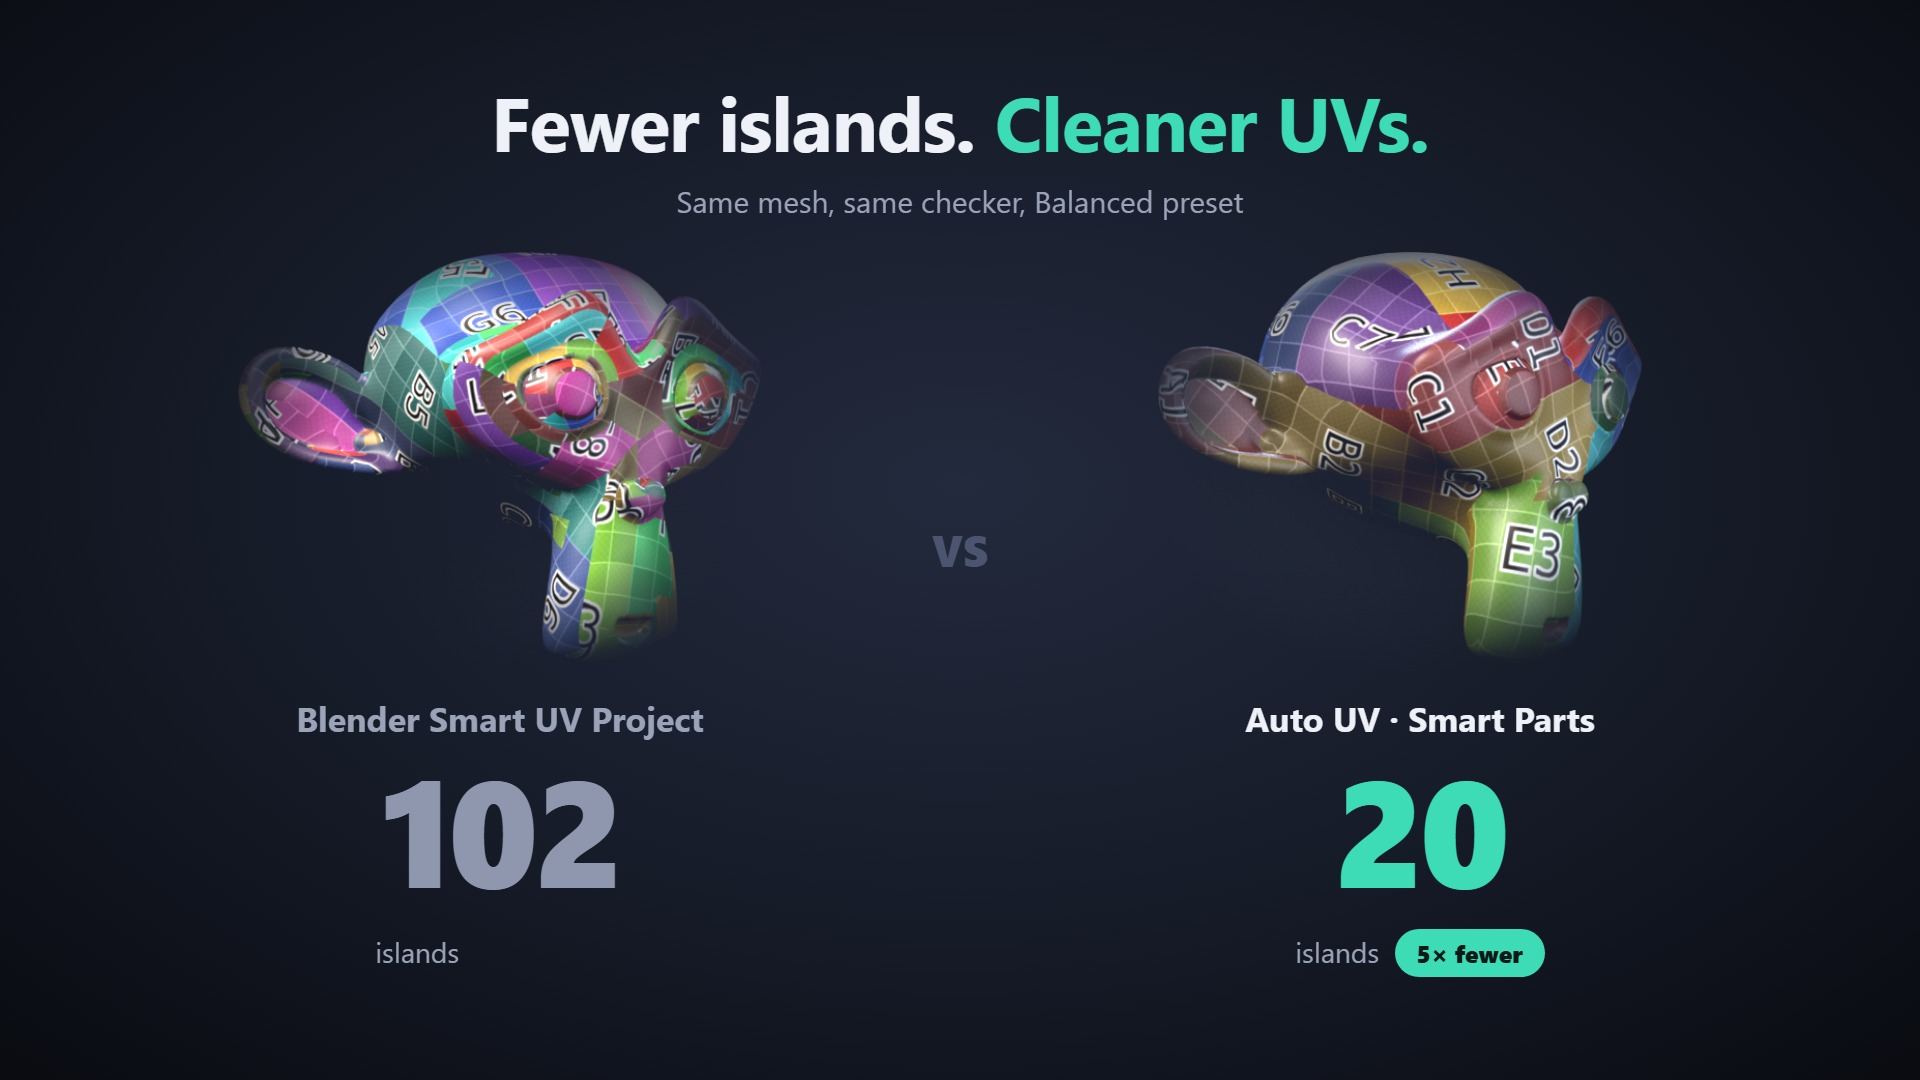
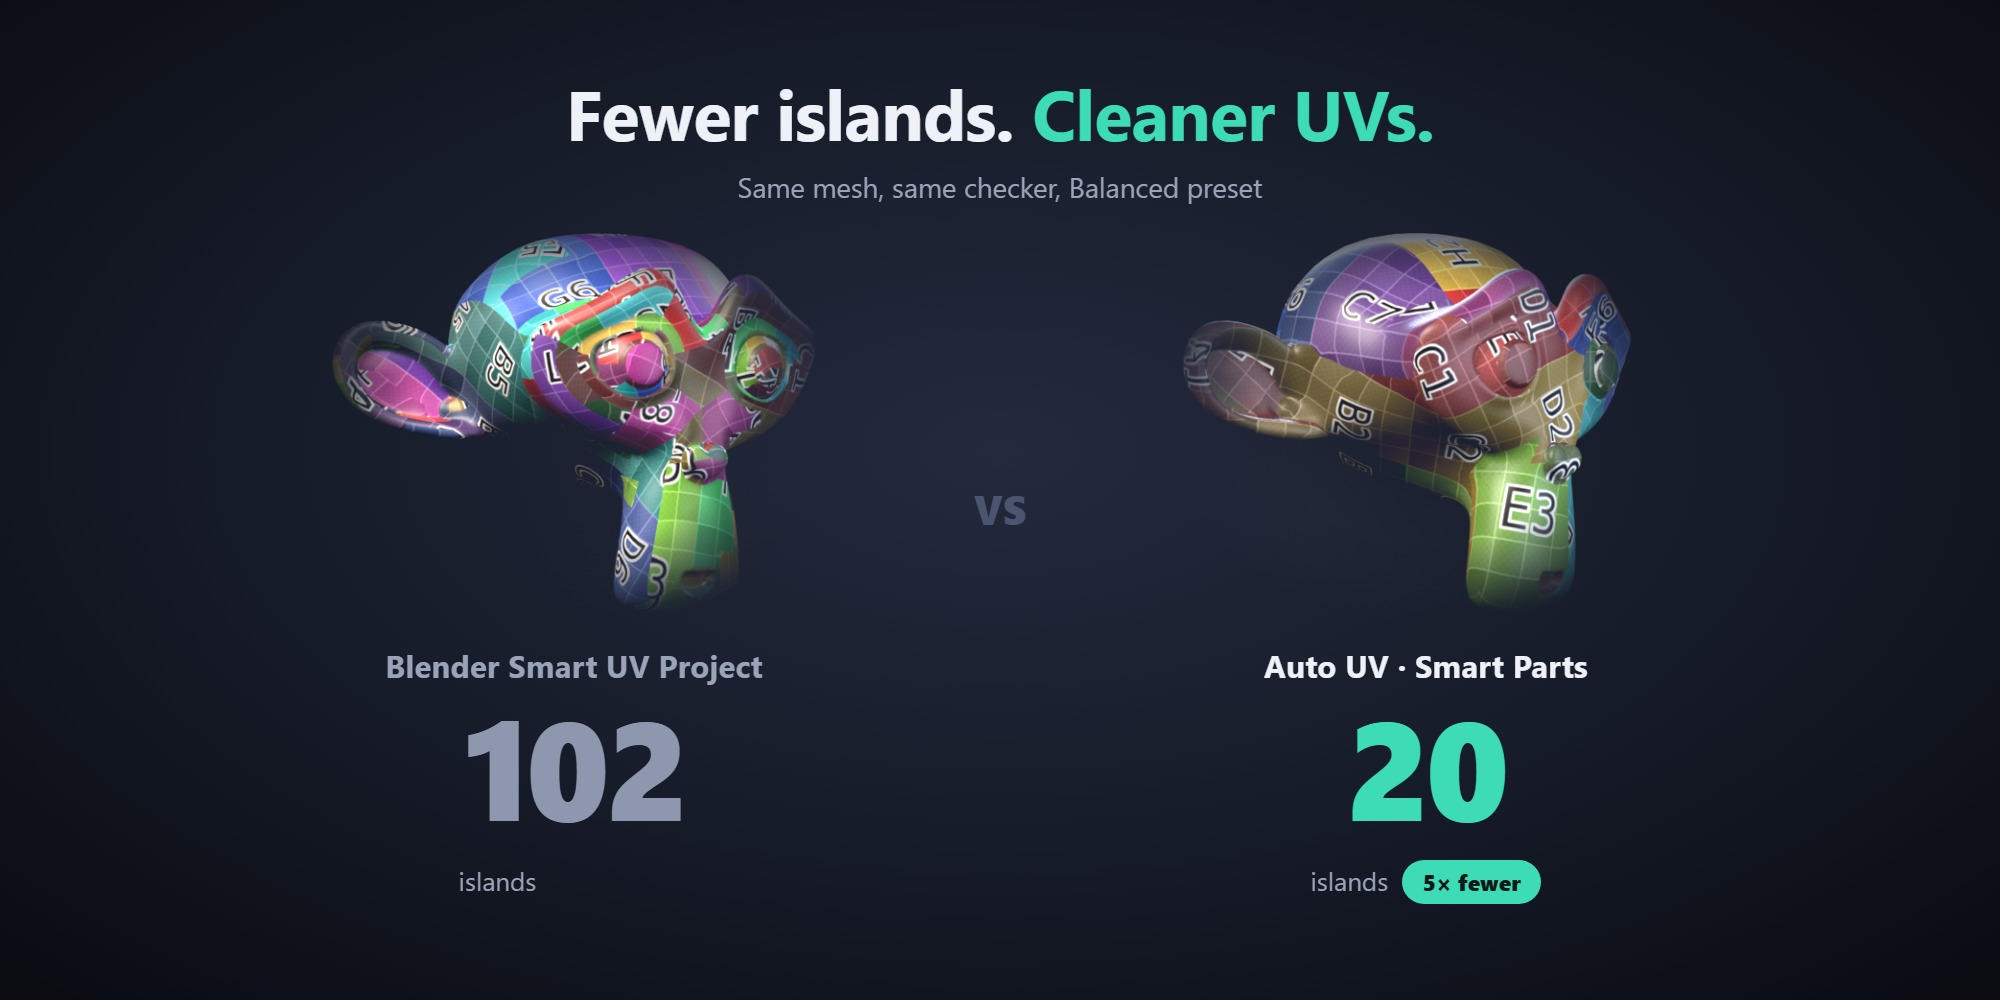
Resize Superhive cover and product images to 2000x1000

diff --git a/README.md b/README.md
@@ -7,6 +7,6 @@ Product page, images and GIFs for the **Auto UV Unwrap** Blender add-on on Super
 - Animated demos: `media/*.gif` and `media/teaser.mp4`
 - Superhive description (Markdown, copy-paste ready): `superhive_description.md`
 - Documentation page: `docs.html`
-- Superhive cover and 5 product images: `superhive/`
+- Superhive cover and 5 product images (2000×1000): `superhive/`
 
 ![Auto UV Unwrap](images/01_cover.jpg)
